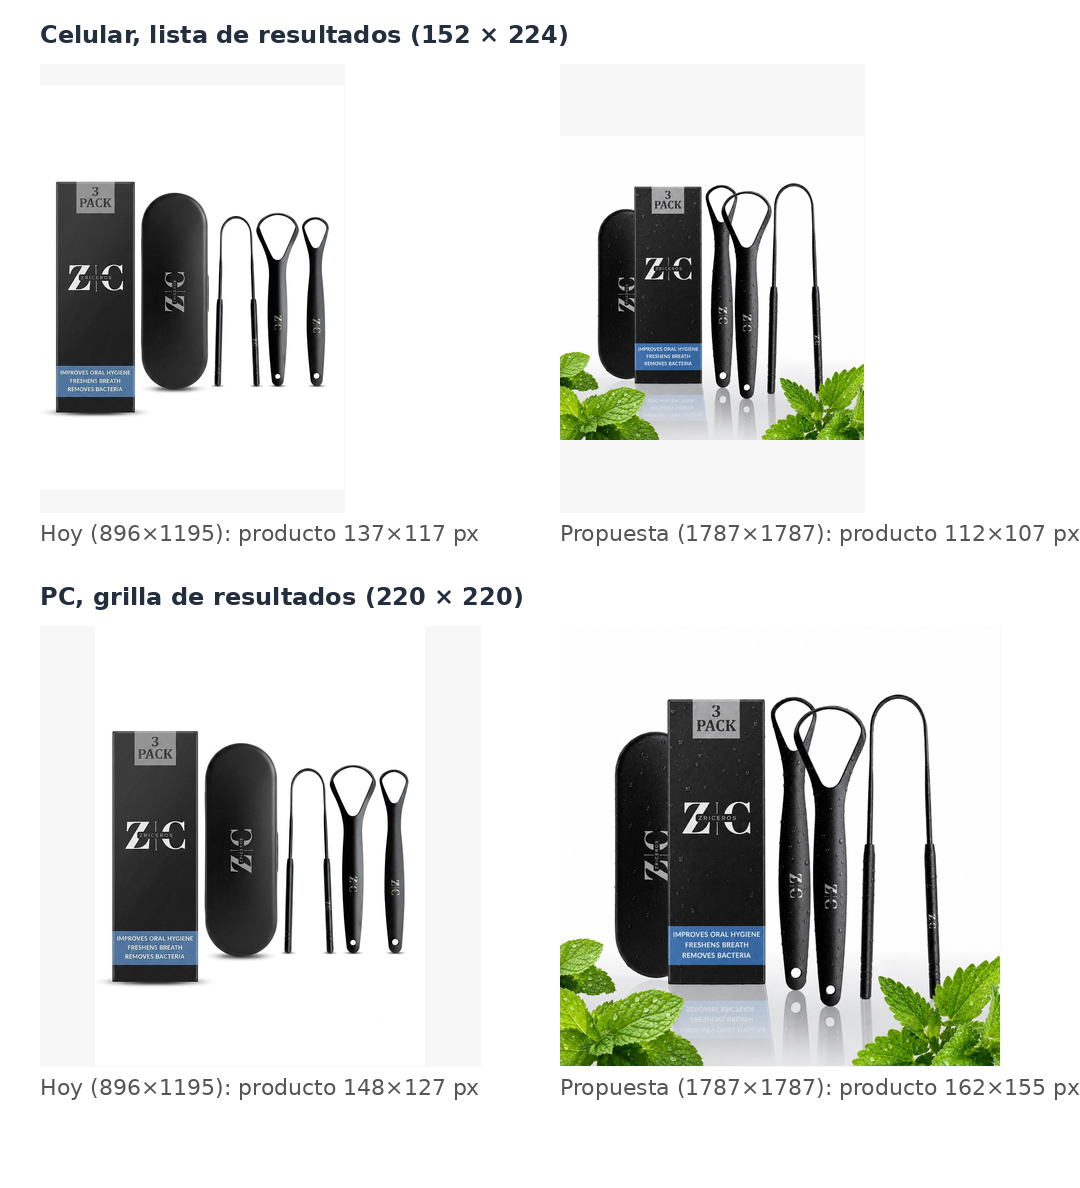
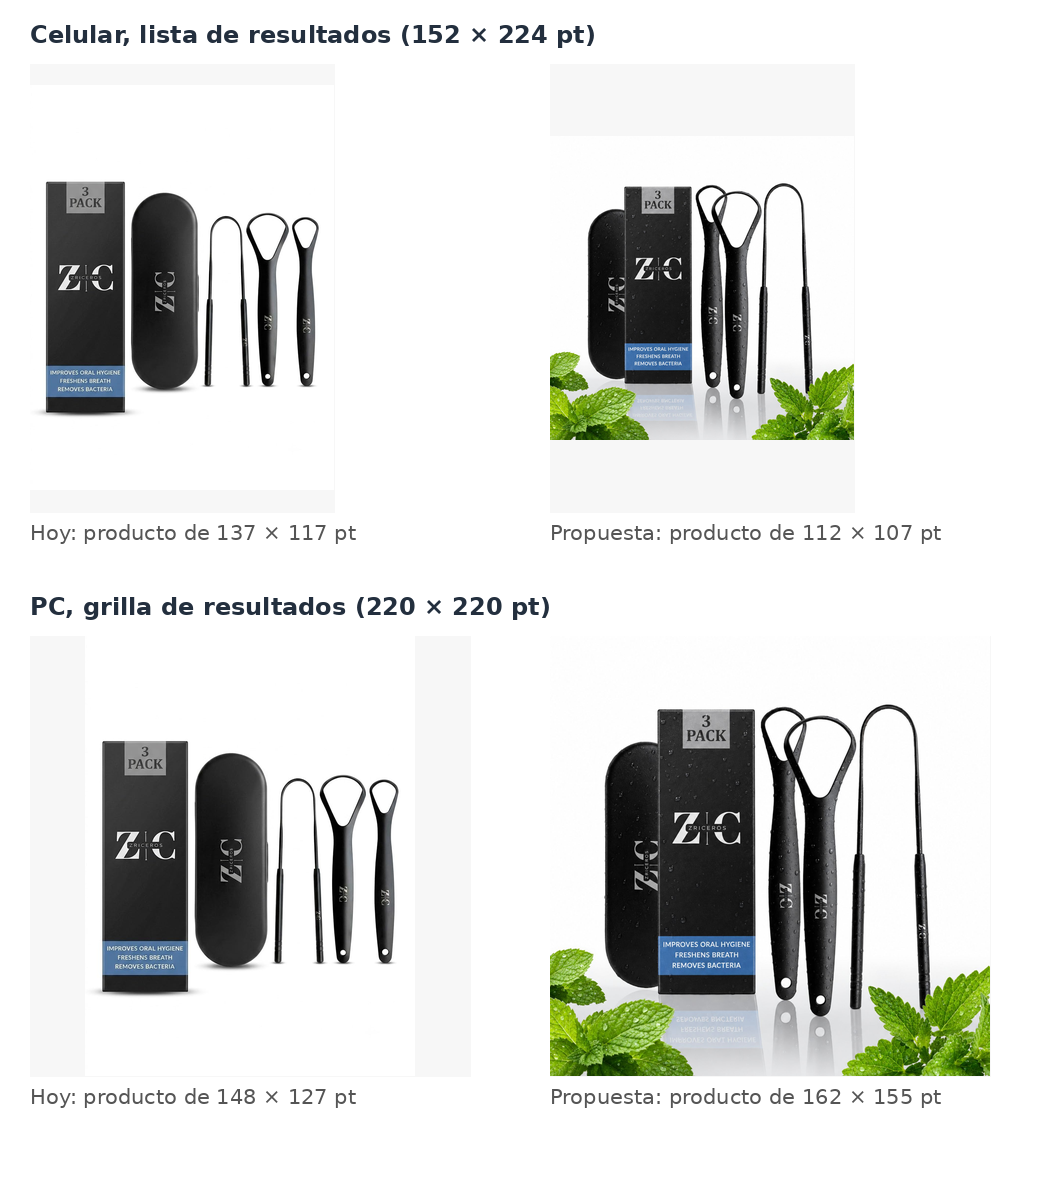
Auto-sync 2026-10-10 13:45:01

diff --git a/reporte-campanas-zriceros-semana-5.html b/reporte-campanas-zriceros-semana-5.html
@@ -266,6 +266,7 @@ más clics desde los resultados de búsqueda, y ahí lo que cuenta es qué tan g
 se ve el producto en la miniatura. Simulada en los dos lugares donde se muestra:</p>
 <figure class="sim"><img src="images/propuestas/miniaturas-semana-5.png" alt="Simulación: las dos imágenes en la lista del celular y en la grilla de PC"><figcaption>Tamaño de la casilla del celular medido en la captura de resultados de septiembre (152 × 224 puntos); grilla de PC aproximada en 220 × 220. Las dos imágenes, con su encuadre real. La columna «lo que se pidió» de la tabla es estimada: producto en 85% del alto y 80% del ancho de un 4:5.</figcaption></figure>
 <table style="margin-top:14px">
+<colgroup><col style="width:24%"><col style="width:22%"><col style="width:30%"><col style="width:24%"></colgroup>
 <tr><th></th><th class="num">Hoy</th><th class="num">Propuesta</th><th class="num">Lo que se pidió (sem. 3 y 4)</th></tr>
 <tr><td>Formato</td><td class="num">896 × 1195 vertical</td><td class="num">1787 × 1787 cuadrada</td><td class="num">1600 × 2000 vertical (4:5)</td></tr>
 <tr><td>Producto en el alto del cuadro</td><td class="num">58%</td><td class="num">71%</td><td class="num">85% o más</td></tr>

diff --git a/CLAUDE.md b/CLAUDE.md
@@ -138,6 +138,32 @@ el de la categoría: el de Tongue Brushes, Scrapers & Cleaners hay que sacarlo d
 texto de la ficha. Y **apareció el producto copiado**: B0C8ZCY2WM, tres
 raspadores con estuche a $5,99 (y B0CFDCYPF3, 3 pack a $3,99).
 
+## La pérdida está en las fichas ajenas, no en una campaña
+
+Semana 5 (2026-10-10). Separando cada línea del informe por **dónde salió el
+anuncio** —búsqueda tipeada o ASIN (ficha ajena)— y no por campaña, las cinco
+semanas dan: búsquedas 100 clics, 16,0%, −$1,06 (empate); fichas ajenas 145
+clics, 6,2%, −$124,15, que es **toda** la pérdida acumulada (−$125,21). En la
+automática, 13,8% contra 2,9%. Corrige a la semana 4 («PRIMALS es toda la
+pérdida»): PRIMALS perdía porque salía sobre todo en fichas ajenas y pagaba más.
+
+**Antes de culpar a una campaña, cortar por tipo de línea** (ASIN contra
+término). En la automática las fichas ajenas vienen de los grupos *Sustitutos* y
+*Complementos*, que se apagan por separado: eso reemplaza a ir negativizando ASIN
+de a uno (en la semana 5 aparecieron 28 fichas distintas). Y cuando se pausa una
+campaña, la otra hereda sus subastas: la automática triplicó el gasto con la
+misma puja.
+
+## La imagen del diseñador (2026-10-10)
+
+Llegó cuadrada, 1787×1787 (`images/propuestas/disenador-2026-10.jpg`): fondo 254
+con piso gris y reflejo, hojas de menta, producto en 71% del alto. **En la casilla
+del celular (152×224 pt, medida en `images/resultados-busqueda-celular.jpg`) una
+cuadrada achica el producto** respecto de la vertical de hoy (−25%); en la grilla
+de PC lo agranda. Simulación: `images/propuestas/miniaturas-semana-5.png`. Va como
+imagen 2; para la principal hay que pedirle seis correcciones (pendiente `zri-ctr`).
+Base del CTR para medirla: «tongue scraper» en la automática, 0,45% (semanas 3–5).
+
 ## Un CTR que cae no siempre es mala noticia sobre el anuncio
 
 Semana 3: con «tongue scraper» negativa en PRIMALS, la automática heredó esa
